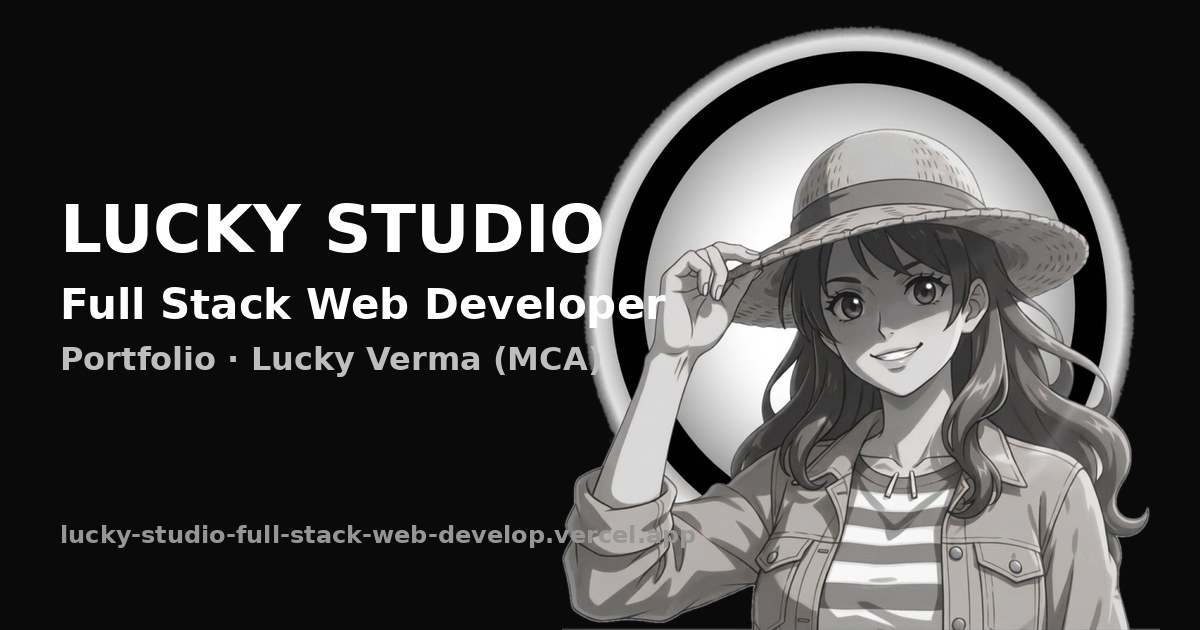
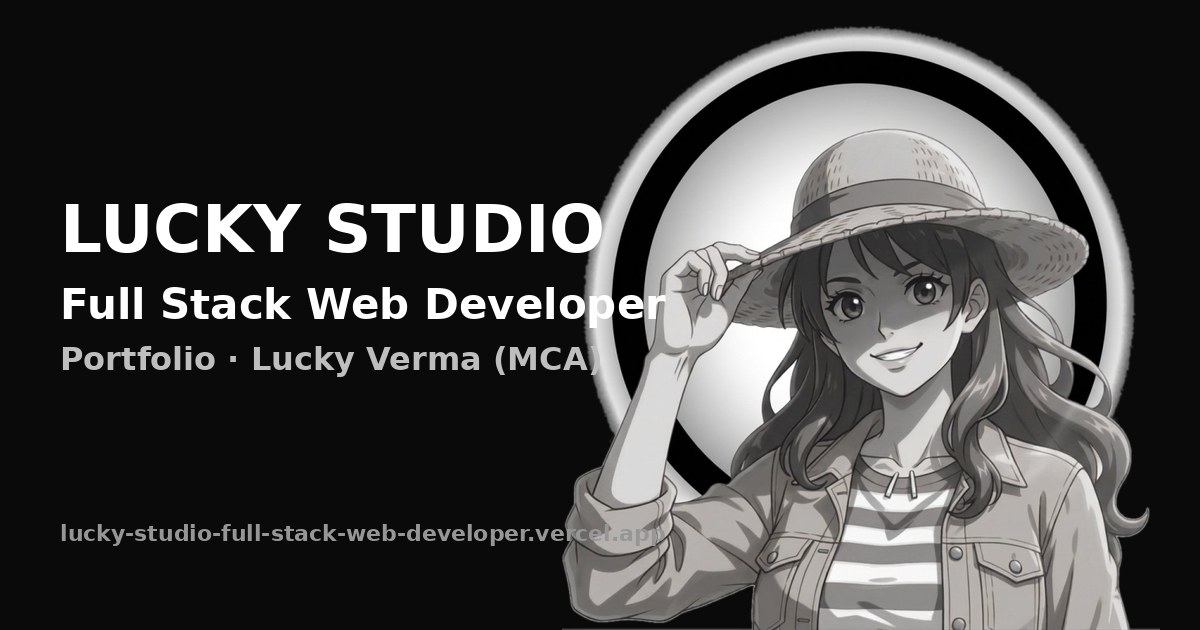
Update portfolio deployment domain

Changed region(s): [[0.0617, 0.8143, 0.5858, 0.8746]]

diff --git a/index.html b/index.html
@@ -1,18 +1,15 @@
 <!DOCTYPE html>
 <html lang="en">
-
 <head>
   <meta charset="UTF-8" />
   <meta name="viewport" content="width=device-width, initial-scale=1.0" />
   <title>Lucky Studio – Full Stack Web Developer Portfolio | Lucky Verma (MCA)</title>
-  <meta name="description"
-    content="Lucky Studio is the full stack web developer portfolio of Lucky Verma (Lokesh Chand Verma), an MCA student, MERN stack developer, UI/UX designer and Codomax Digital Solutions intern building fast, SEO-friendly websites.">
-  <meta name="keywords"
-    content="lucky studio full stack web developer portfolio, lucky-studio-full-stack-web-developer-portfolio, lucky studio, lucky verma, lucky verma mca, lucky verma full stack web developer, lokesh chand verma, lokesh verma portfolio, codomax digital solutions intern, codomax full stack intern, mern stack developer portfolio, ui ux designer portfolio, seo friendly website developer, mca student web developer, aktu mca web developer">
+  <meta name="description" content="Lucky Studio is the full stack web developer portfolio of Lucky Verma (Lokesh Chand Verma), an MCA student, MERN stack developer, UI/UX designer and Codomax Digital Solutions intern building fast, SEO-friendly websites.">
+  <meta name="keywords" content="lucky studio full stack web developer portfolio, lucky-studio-full-stack-web-developer-portfolio, lucky studio, lucky verma, lucky verma mca, lucky verma full stack web developer, lokesh chand verma, lokesh verma portfolio, codomax digital solutions intern, codomax full stack intern, mern stack developer portfolio, ui ux designer portfolio, seo friendly website developer, mca student web developer, aktu mca web developer">
   <meta name="author" content="Lucky Verma">
   <meta name="robots" content="index, follow, max-image-preview:large, max-snippet:-1, max-video-preview:-1">
   <meta name="theme-color" content="#000000">
-  <link rel="canonical" href="https://lucky-studio-full-stack-web-develop.vercel.app/">
+  <link rel="canonical" href="https://lucky-studio-full-stack-web-developer.vercel.app/">
   <link rel="icon" href="/favicon.ico" sizes="any">
   <link rel="icon" type="image/png" sizes="48x48" href="/favicon-48x48.png">
   <link rel="icon" type="image/png" sizes="96x96" href="/favicon-96x96.png">
@@ -22,27 +19,23 @@
   <meta property="og:type" content="website">
   <meta property="og:site_name" content="Lucky Studio">
   <meta property="og:title" content="Lucky Studio – Full Stack Web Developer Portfolio | Lucky Verma (MCA)">
-  <meta property="og:description"
-    content="Lucky Studio is the full stack web developer portfolio of Lucky Verma (Lokesh Chand Verma), an MCA student, MERN stack developer, UI/UX designer and Codomax Digital Solutions intern building fast, SEO-friendly websites.">
-  <meta property="og:url" content="https://lucky-studio-full-stack-web-develop.vercel.app/">
-  <meta property="og:image" content="https://lucky-studio-full-stack-web-develop.vercel.app/og-image.jpg">
+  <meta property="og:description" content="Lucky Studio is the full stack web developer portfolio of Lucky Verma (Lokesh Chand Verma), an MCA student, MERN stack developer, UI/UX designer and Codomax Digital Solutions intern building fast, SEO-friendly websites.">
+  <meta property="og:url" content="https://lucky-studio-full-stack-web-developer.vercel.app/">
+  <meta property="og:image" content="https://lucky-studio-full-stack-web-developer.vercel.app/og-image.jpg">
   <meta property="og:image:width" content="1200">
   <meta property="og:image:height" content="630">
   <meta property="og:image:alt" content="Lucky Studio – Lucky Verma, full stack web developer">
   <meta property="og:locale" content="en_IN">
   <meta name="twitter:card" content="summary_large_image">
   <meta name="twitter:title" content="Lucky Studio – Full Stack Web Developer Portfolio | Lucky Verma (MCA)">
-  <meta name="twitter:description"
-    content="Lucky Studio is the full stack web developer portfolio of Lucky Verma (Lokesh Chand Verma), an MCA student, MERN stack developer, UI/UX designer and Codomax Digital Solutions intern building fast, SEO-friendly websites.">
-  <meta name="twitter:image" content="https://lucky-studio-full-stack-web-develop.vercel.app/og-image.jpg">
-  <script
-    type="application/ld+json">{"@context": "https://schema.org", "@graph": [{"@type": "WebSite", "@id": "https://lucky-studio-full-stack-web-develop.vercel.app/#website", "url": "https://lucky-studio-full-stack-web-develop.vercel.app/", "name": "Lucky Studio", "alternateName": ["Lucky Studio Full Stack Web Developer Portfolio", "Lucky-Studio", "Lucky Verma Portfolio"], "inLanguage": "en", "publisher": {"@id": "https://lucky-studio-full-stack-web-develop.vercel.app/#person"}}, {"@type": "ProfilePage", "@id": "https://lucky-studio-full-stack-web-develop.vercel.app/#webpage", "url": "https://lucky-studio-full-stack-web-develop.vercel.app/", "name": "Lucky Studio – Full Stack Web Developer Portfolio | Lucky Verma (MCA)", "description": "Lucky Studio is the full stack web developer portfolio of Lucky Verma (Lokesh Chand Verma), an MCA student, MERN stack developer, UI/UX designer and Codomax Digital Solutions intern building fast, SEO-friendly websites.", "isPartOf": {"@id": "https://lucky-studio-full-stack-web-develop.vercel.app/#website"}, "primaryImageOfPage": {"@type": "ImageObject", "url": "https://lucky-studio-full-stack-web-develop.vercel.app/assets/hero.png"}, "dateModified": "2026-11-18", "mainEntity": {"@id": "https://lucky-studio-full-stack-web-develop.vercel.app/#person"}, "dateCreated": "2026-10-01"}, {"@type": "Person", "@id": "https://lucky-studio-full-stack-web-develop.vercel.app/#person", "name": "Lucky Verma", "alternateName": ["Lokesh Chand Verma", "Lokesh Verma", "Lucky Studio"], "url": "https://lucky-studio-full-stack-web-develop.vercel.app/", "image": "https://lucky-studio-full-stack-web-develop.vercel.app/assets/hero.png", "jobTitle": "Full Stack Web Developer", "description": "Lucky Studio is the full stack web developer portfolio of Lucky Verma (Lokesh Chand Verma), an MCA student, MERN stack developer, UI/UX designer and Codomax Digital Solutions intern building fast, SEO-friendly websites.", "sameAs": ["https://www.linkedin.com/in/lokesh-chand-verma"], "knowsAbout": ["Full Stack Web Development", "MERN Stack", "JavaScript", "React", "Node.js", "UI/UX Design", "SEO", "Data Analytics"], "worksFor": {"@type": "Organization", "name": "Codomax Digital Solutions"}, "alumniOf": [{"@type": "CollegeOrUniversity", "name": "Chaudhary Charan Singh University, Meerut"}], "affiliation": {"@type": "CollegeOrUniversity", "name": "Dr. A.P.J. Abdul Kalam Technical University (AKTU)"}, "mainEntityOfPage": {"@id": "https://lucky-studio-full-stack-web-develop.vercel.app/#webpage"}}, {"@type": "ProfessionalService", "@id": "https://lucky-studio-full-stack-web-develop.vercel.app/#studio", "name": "Lucky Studio", "url": "https://lucky-studio-full-stack-web-develop.vercel.app/", "image": "https://lucky-studio-full-stack-web-develop.vercel.app/assets/hero.png", "description": "Full stack web development, UI/UX design and SEO-friendly website building by Lucky Verma.", "founder": {"@id": "https://lucky-studio-full-stack-web-develop.vercel.app/#person"}, "areaServed": "IN", "email": "mailto:showmeyouripfastfast@gmail.com"}]}</script>
+  <meta name="twitter:description" content="Lucky Studio is the full stack web developer portfolio of Lucky Verma (Lokesh Chand Verma), an MCA student, MERN stack developer, UI/UX designer and Codomax Digital Solutions intern building fast, SEO-friendly websites.">
+  <meta name="twitter:image" content="https://lucky-studio-full-stack-web-developer.vercel.app/og-image.jpg">
+  <script type="application/ld+json">{"@context": "https://schema.org", "@graph": [{"@type": "WebSite", "@id": "https://lucky-studio-full-stack-web-developer.vercel.app/#website", "url": "https://lucky-studio-full-stack-web-developer.vercel.app/", "name": "Lucky Studio", "alternateName": ["Lucky Studio Full Stack Web Developer Portfolio", "Lucky-Studio", "Lucky Verma Portfolio"], "inLanguage": "en", "publisher": {"@id": "https://lucky-studio-full-stack-web-developer.vercel.app/#person"}}, {"@type": "ProfilePage", "@id": "https://lucky-studio-full-stack-web-developer.vercel.app/#webpage", "url": "https://lucky-studio-full-stack-web-developer.vercel.app/", "name": "Lucky Studio – Full Stack Web Developer Portfolio | Lucky Verma (MCA)", "description": "Lucky Studio is the full stack web developer portfolio of Lucky Verma (Lokesh Chand Verma), an MCA student, MERN stack developer, UI/UX designer and Codomax Digital Solutions intern building fast, SEO-friendly websites.", "isPartOf": {"@id": "https://lucky-studio-full-stack-web-developer.vercel.app/#website"}, "primaryImageOfPage": {"@type": "ImageObject", "url": "https://lucky-studio-full-stack-web-developer.vercel.app/assets/hero.png"}, "dateModified": "2026-11-18", "mainEntity": {"@id": "https://lucky-studio-full-stack-web-developer.vercel.app/#person"}, "dateCreated": "2026-10-01"}, {"@type": "Person", "@id": "https://lucky-studio-full-stack-web-developer.vercel.app/#person", "name": "Lucky Verma", "alternateName": ["Lokesh Chand Verma", "Lokesh Verma", "Lucky Studio"], "url": "https://lucky-studio-full-stack-web-developer.vercel.app/", "image": "https://lucky-studio-full-stack-web-developer.vercel.app/assets/hero.png", "jobTitle": "Full Stack Web Developer", "description": "Lucky Studio is the full stack web developer portfolio of Lucky Verma (Lokesh Chand Verma), an MCA student, MERN stack developer, UI/UX designer and Codomax Digital Solutions intern building fast, SEO-friendly websites.", "sameAs": ["https://www.linkedin.com/in/lokesh-chand-verma"], "knowsAbout": ["Full Stack Web Development", "MERN Stack", "JavaScript", "React", "Node.js", "UI/UX Design", "SEO", "Data Analytics"], "worksFor": {"@type": "Organization", "name": "Codomax Digital Solutions"}, "alumniOf": [{"@type": "CollegeOrUniversity", "name": "Chaudhary Charan Singh University, Meerut"}], "affiliation": {"@type": "CollegeOrUniversity", "name": "Dr. A.P.J. Abdul Kalam Technical University (AKTU)"}, "mainEntityOfPage": {"@id": "https://lucky-studio-full-stack-web-developer.vercel.app/#webpage"}}, {"@type": "ProfessionalService", "@id": "https://lucky-studio-full-stack-web-developer.vercel.app/#studio", "name": "Lucky Studio", "url": "https://lucky-studio-full-stack-web-developer.vercel.app/", "image": "https://lucky-studio-full-stack-web-developer.vercel.app/assets/hero.png", "description": "Full stack web development, UI/UX design and SEO-friendly website building by Lucky Verma.", "founder": {"@id": "https://lucky-studio-full-stack-web-developer.vercel.app/#person"}, "areaServed": "IN", "email": "mailto:showmeyouripfastfast@gmail.com"}]}</script>
   <link rel="preconnect" href="https://fonts.googleapis.com">
   <link rel="preconnect" href="https://fonts.gstatic.com" crossorigin>
   <link href="https://fonts.googleapis.com/css2?family=Orbitron:wght@400;500;600;700&display=swap" rel="stylesheet">
   <link rel="stylesheet" href="style.css" />
 </head>
-
 <body>
   <section class="intro" id="introSection">
     <div class="overlay-text">
@@ -54,9 +47,7 @@
 
   <div class="tagline">
     <span>Development , Design &amp; More</span>
-    <div class="right">
-      <div class="divider"></div><img src="assets/profile.png" alt="Lucky Verma, full stack web developer">
-    </div>
+    <div class="right"><div class="divider"></div><img src="assets/profile.png" alt="Lucky Verma, full stack web developer"></div>
   </div>
 
   <div class="logo">
@@ -68,13 +59,11 @@
     <div class="row" id="home" data-spy="home">
       <div id="mobile-menu" class="mobile-menu">
         <span id="mob-menu-close" class="close">&times; close</span>
-        <a class="active" href="#home">Home</a><a href="#skills">Skills</a><a href="#projects">Projects</a><a
-          href="#contact">Contact Me</a>
+        <a class="active" href="#home">Home</a><a href="#skills">Skills</a><a href="#projects">Projects</a><a href="#contact">Contact Me</a>
         <div class="logo"><img src="assets/logo.svg" alt=""></div>
       </div>
       <div class="vertival-menu">
-        <a class="active" href="#home">Home</a><a href="#skills">Skills</a><a href="#projects">Projects</a><a
-          href="#contact">Contact Me</a>
+        <a class="active" href="#home">Home</a><a href="#skills">Skills</a><a href="#projects">Projects</a><a href="#contact">Contact Me</a>
         <img class="circular-logo" src="assets/circular-logo.svg" alt="">
       </div>
 
@@ -84,45 +73,25 @@
         <p class="p-10"></p>
         <p class="p-10"></p>
         <div class="box-row">
-          <div class="detail-box">
-            <h2>CERTIFICATIONS</h2>
-            <h1 data-count="3">0</h1>
-          </div>
-          <div class="detail-box">
-            <h2>PROJECTS</h2>
-            <h1 data-count="30" data-suffix="+">0</h1>
-          </div>
+          <div class="detail-box"><h2>CERTIFICATIONS</h2><h1 data-count="3">0</h1></div>
+          <div class="detail-box"><h2>PROJECTS</h2><h1 data-count="30" data-suffix="+">0</h1></div>
         </div>
         <div class="detail-text">FULL STACK WEB DEVELOPER<br>STUDENT<br>MCA</div>
         <div class="box-row">
-          <div class="detail-box sm">
-            <h2>FULL STACK</h2>
-            <h1>WEB DEVELOPER</h1>
-          </div>
-          <div class="detail-box sm">
-            <h2>UI UX</h2>
-            <h1>DESIGN</h1>
-          </div>
+          <div class="detail-box sm"><h2>FULL STACK</h2><h1>WEB DEVELOPER</h1></div>
+          <div class="detail-box sm"><h2>UI UX</h2><h1>DESIGN</h1></div>
         </div>
       </div>
       <div class="right-region">
-        <img class="home-name" src="assets/hero.png" alt="Lucky Verma – Lucky Studio full stack web developer portfolio"
-          width="756" height="796" fetchpriority="high">
+        <img class="home-name" src="assets/hero.png" alt="Lucky Verma – Lucky Studio full stack web developer portfolio" width="756" height="796" fetchpriority="high">
       </div>
     </div>
 
     <section class="educational-details" id="about" data-spy="home" style="margin-bottom: 20px;">
       <h2 style="font-size:2rem">ABOUT LUCKY STUDIO – FULL STACK WEB DEVELOPER</h2>
       <p class="secondry-text-white m-t-10">LUCKY VERMA (LOKESH CHAND VERMA) · MCA · MERN STACK · UI/UX</p>
-      <p class="intro-copy" style="margin-top:16px;line-height:1.8;max-width:900px">Lucky Studio is the full stack web
-        developer portfolio of Lucky Verma, also known as Lokesh Chand Verma – an MCA student at AKTU and BCA graduate
-        of CCSU Meerut. Lucky completed a Full Stack Web Development internship at Codomax Digital Solutions and builds
-        fast, responsive, SEO-friendly websites and web apps using HTML, CSS, JavaScript, React, Node.js and the MERN
-        stack, with a UI/UX design approach. Browse the live projects below, view the certificates, or get in touch to
-        hire a full stack web developer.</p>
-      <p class="intro-copy" style="margin-top:12px"><a href="#projects" style="color:inherit">View projects</a> · <a
-          href="#skills" style="color:inherit">Skills</a> · <a href="#contact" style="color:inherit">Contact Lucky</a>
-      </p>
+      <p class="intro-copy" style="margin-top:16px;line-height:1.8;max-width:900px">Lucky Studio is the full stack web developer portfolio of Lucky Verma, also known as Lokesh Chand Verma – an MCA student at AKTU and BCA graduate of CCSU Meerut. Lucky completed a Full Stack Web Development internship at Codomax Digital Solutions and builds fast, responsive, SEO-friendly websites and web apps using HTML, CSS, JavaScript, React, Node.js and the MERN stack, with a UI/UX design approach. Browse the live projects below, view the certificates, or get in touch to hire a full stack web developer.</p>
+      <p class="intro-copy" style="margin-top:12px"><a href="#projects" style="color:inherit">View projects</a> · <a href="#skills" style="color:inherit">Skills</a> · <a href="#contact" style="color:inherit">Contact Lucky</a></p>
     </section>
 
     <div class="educational-details" data-spy="home" style="margin-bottom: 20px;">
@@ -139,9 +108,7 @@
               <h5>Duration: 1 Month</h5>
               <h5>From: 15 October 2026 - 14 November 2026</h5>
               <h5>Role: Full Stack Web Development Intern</h5>
-              <p>During the internship I completed the assigned full stack web development tasks and demonstrated
-                dedication, technical aptitude and a commitment to learning. The internship was recognised with a
-                certificate of completion (ID: CDM/CERT/334684).</p>
+              <p>During the internship I completed the assigned full stack web development tasks and demonstrated dedication, technical aptitude and a commitment to learning. The internship was recognised with a certificate of completion (ID: CDM/CERT/334684).</p>
             </div>
           </div>
         </div>
@@ -161,8 +128,7 @@
               <h2>AKTU – Dr. A.P.J. Abdul Kalam Technical University</h2>
               <h5>Master of Computer Applications (MCA)</h5>
               <h5>Status: Currently pursuing</h5>
-              <p>I am pursuing my Master of Computer Applications (MCA) at AKTU while building full stack web projects
-                and SEO-focused websites.</p>
+              <p>I am pursuing my Master of Computer Applications (MCA) at AKTU while building full stack web projects and SEO-focused websites.</p>
             </div>
           </div>
           GRADUATION :
@@ -171,8 +137,7 @@
             <div class="edu-details">
               <h2>CCSU – Chaudhary Charan Singh University, Meerut</h2>
               <h5>Bachelor of Computer Applications (BCA)</h5>
-              <p>I completed my Bachelor of Computer Applications (BCA) at Chaudhary Charan Singh University (CCSU),
-                Meerut.</p>
+              <p>I completed my Bachelor of Computer Applications (BCA) at Chaudhary Charan Singh University (CCSU), Meerut.</p>
             </div>
           </div>
           UX DESIGN :
@@ -187,14 +152,12 @@
           </div>
           DATA ANALYTICS :
           <div class="edu-item">
-            <img class="thumb" src="certificates/data-analytics-certificate.jpg"
-              alt="Google Data Analytics foundations certificate – Lucky Verma">
+            <img class="thumb" src="certificates/data-analytics-certificate.jpg" alt="Google Data Analytics foundations certificate – Lucky Verma">
             <div class="edu-details">
               <h2>Foundations: Data, Data, Everywhere</h2>
               <h5>Google · offered through Coursera</h5>
               <h5>Completed: 23 March 2026</h5>
-              <p>An introductory course on working with data and the foundations of data analytics, authorized by
-                Google.</p>
+              <p>An introductory course on working with data and the foundations of data analytics, authorized by Google.</p>
             </div>
           </div>
         </div>
@@ -216,8 +179,7 @@
     <div class="page-section" id="projects" data-spy="projects">
       <h1 class="name">PROJECTS :</h1>
       <p class="secondry-text m-t-10">CLICK A PROJECT TO OPEN THE LIVE SITE</p>
-      <p class="intro-copy">30+ projects built so far. Here are four live, SEO-focused websites – fast, search-ready and
-        built end to end. The rest are on LinkedIn.</p>
+      <p class="intro-copy">30+ projects built so far. Here are four live, SEO-focused websites – fast, search-ready and built end to end. The rest are on LinkedIn.</p>
       <div class="projects-list" id="projectList"></div>
     </div>
 
@@ -230,8 +192,7 @@
           <label for="cName" style="margin-top: 10px;margin-right: 10px;">Name : </label>
           <input id="cName" type="text" placeholder="Enter your full name" autocomplete="name">
           <label for="cEmail" style="margin-top: 10px;margin-right: 10px;">Email : </label>
-          <input id="cEmail" type="email" placeholder="Enter your email id" autocomplete="email"
-            style="margin-right: 0px !important;">
+          <input id="cEmail" type="email" placeholder="Enter your email id" autocomplete="email" style="margin-right: 0px !important;">
         </div>
         <div class="row" style="margin-bottom: 20px;">
           <label for="cVia" style="margin-top: 10px;margin-right: 10px;">Send via : </label>
@@ -266,15 +227,13 @@
   </div>
 
   <img class="line-pattern" src="assets/line_pattern.svg" alt="">
-  <div class="footer"><span>© <span id="currentYear"></span> Lucky Verma – Lucky Studio. All rights reserved.</span>
-  </div>
+  <div class="footer"><span>© <span id="currentYear"></span> Lucky Verma – Lucky Studio. All rights reserved.</span></div>
 
   <noscript>
     <section style="padding:20px;color:#000;background:#fff">
       <h2>Projects by Lucky Verma (Lucky Studio)</h2>
       <ul>
-        <li><a href="https://angel-web-creations.vercel.app/">Angel Web Creations</a> – SEO-based full stack website
-        </li>
+        <li><a href="https://angel-web-creations.vercel.app/">Angel Web Creations</a> – SEO-based full stack website</li>
         <li><a href="https://aural-site-livid.vercel.app/">Aural Headphones</a> – 3D scroll website</li>
         <li><a href="https://xincord.vercel.app/">Xincord</a> – social web app</li>
         <li><a href="https://tesla-scroll-site-ebon.vercel.app/">Tesla Scroll Experience</a> – scroll website</li>
@@ -285,5 +244,4 @@
 
   <script src="script.js" defer></script>
 </body>
-
 </html>
